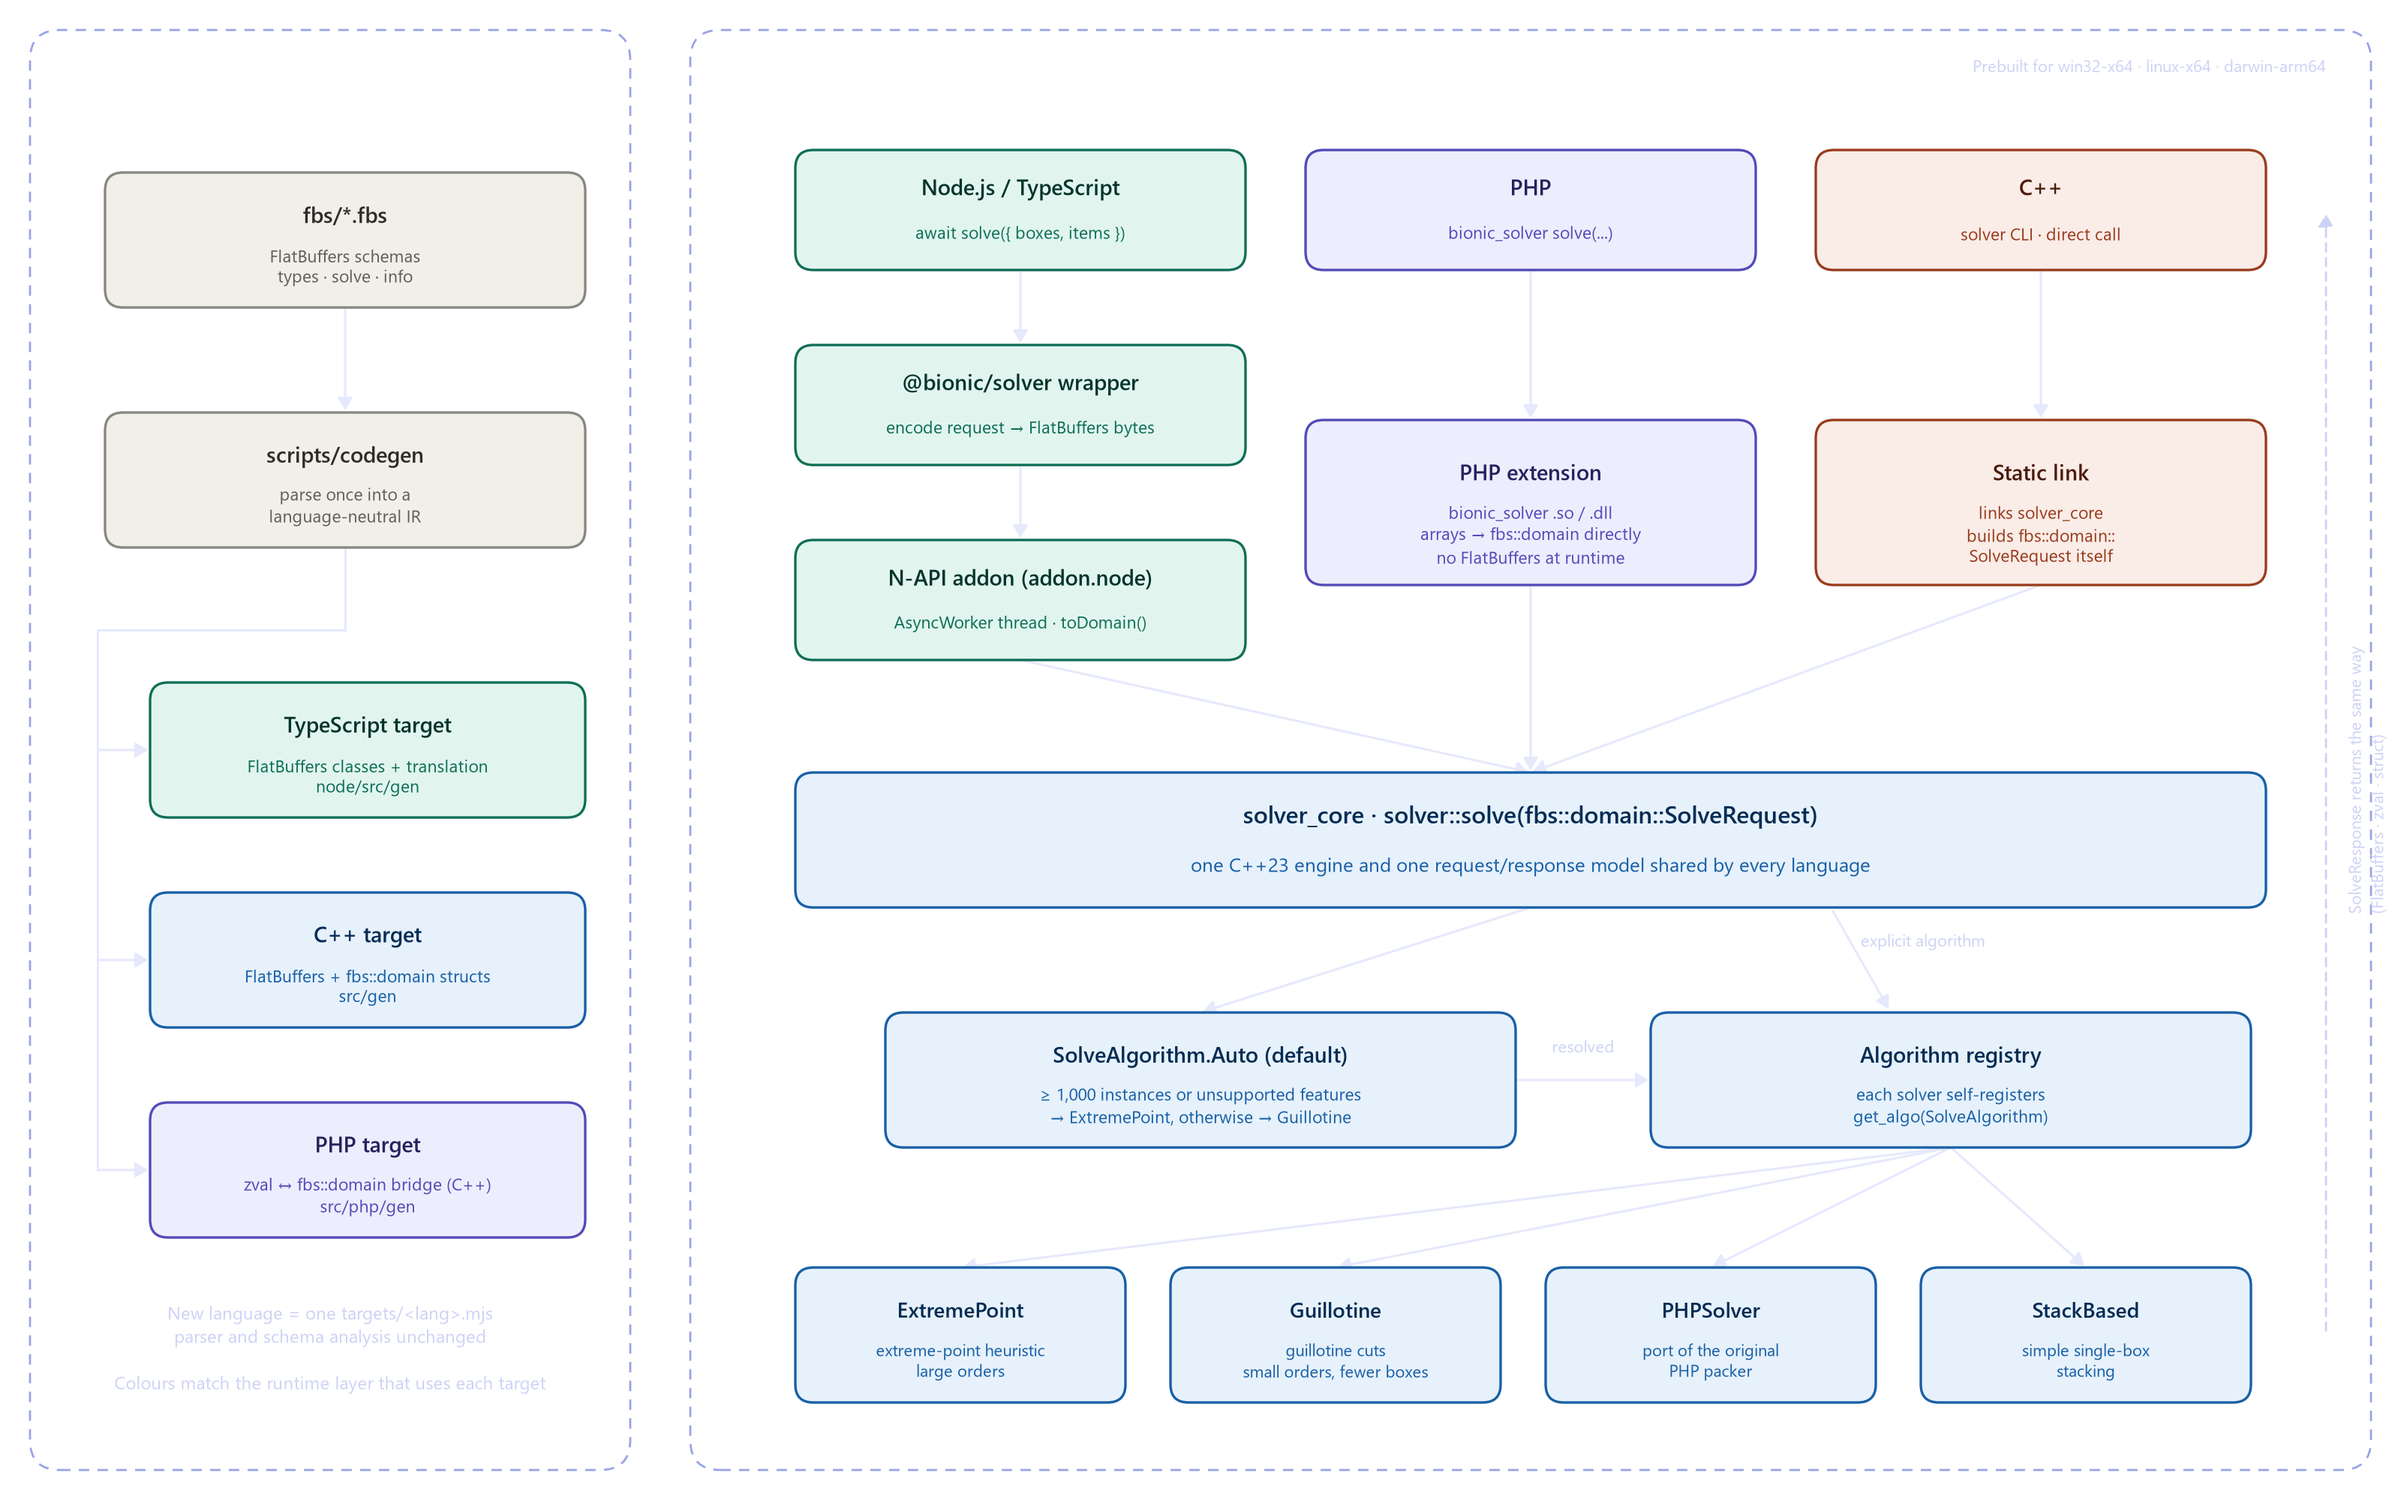
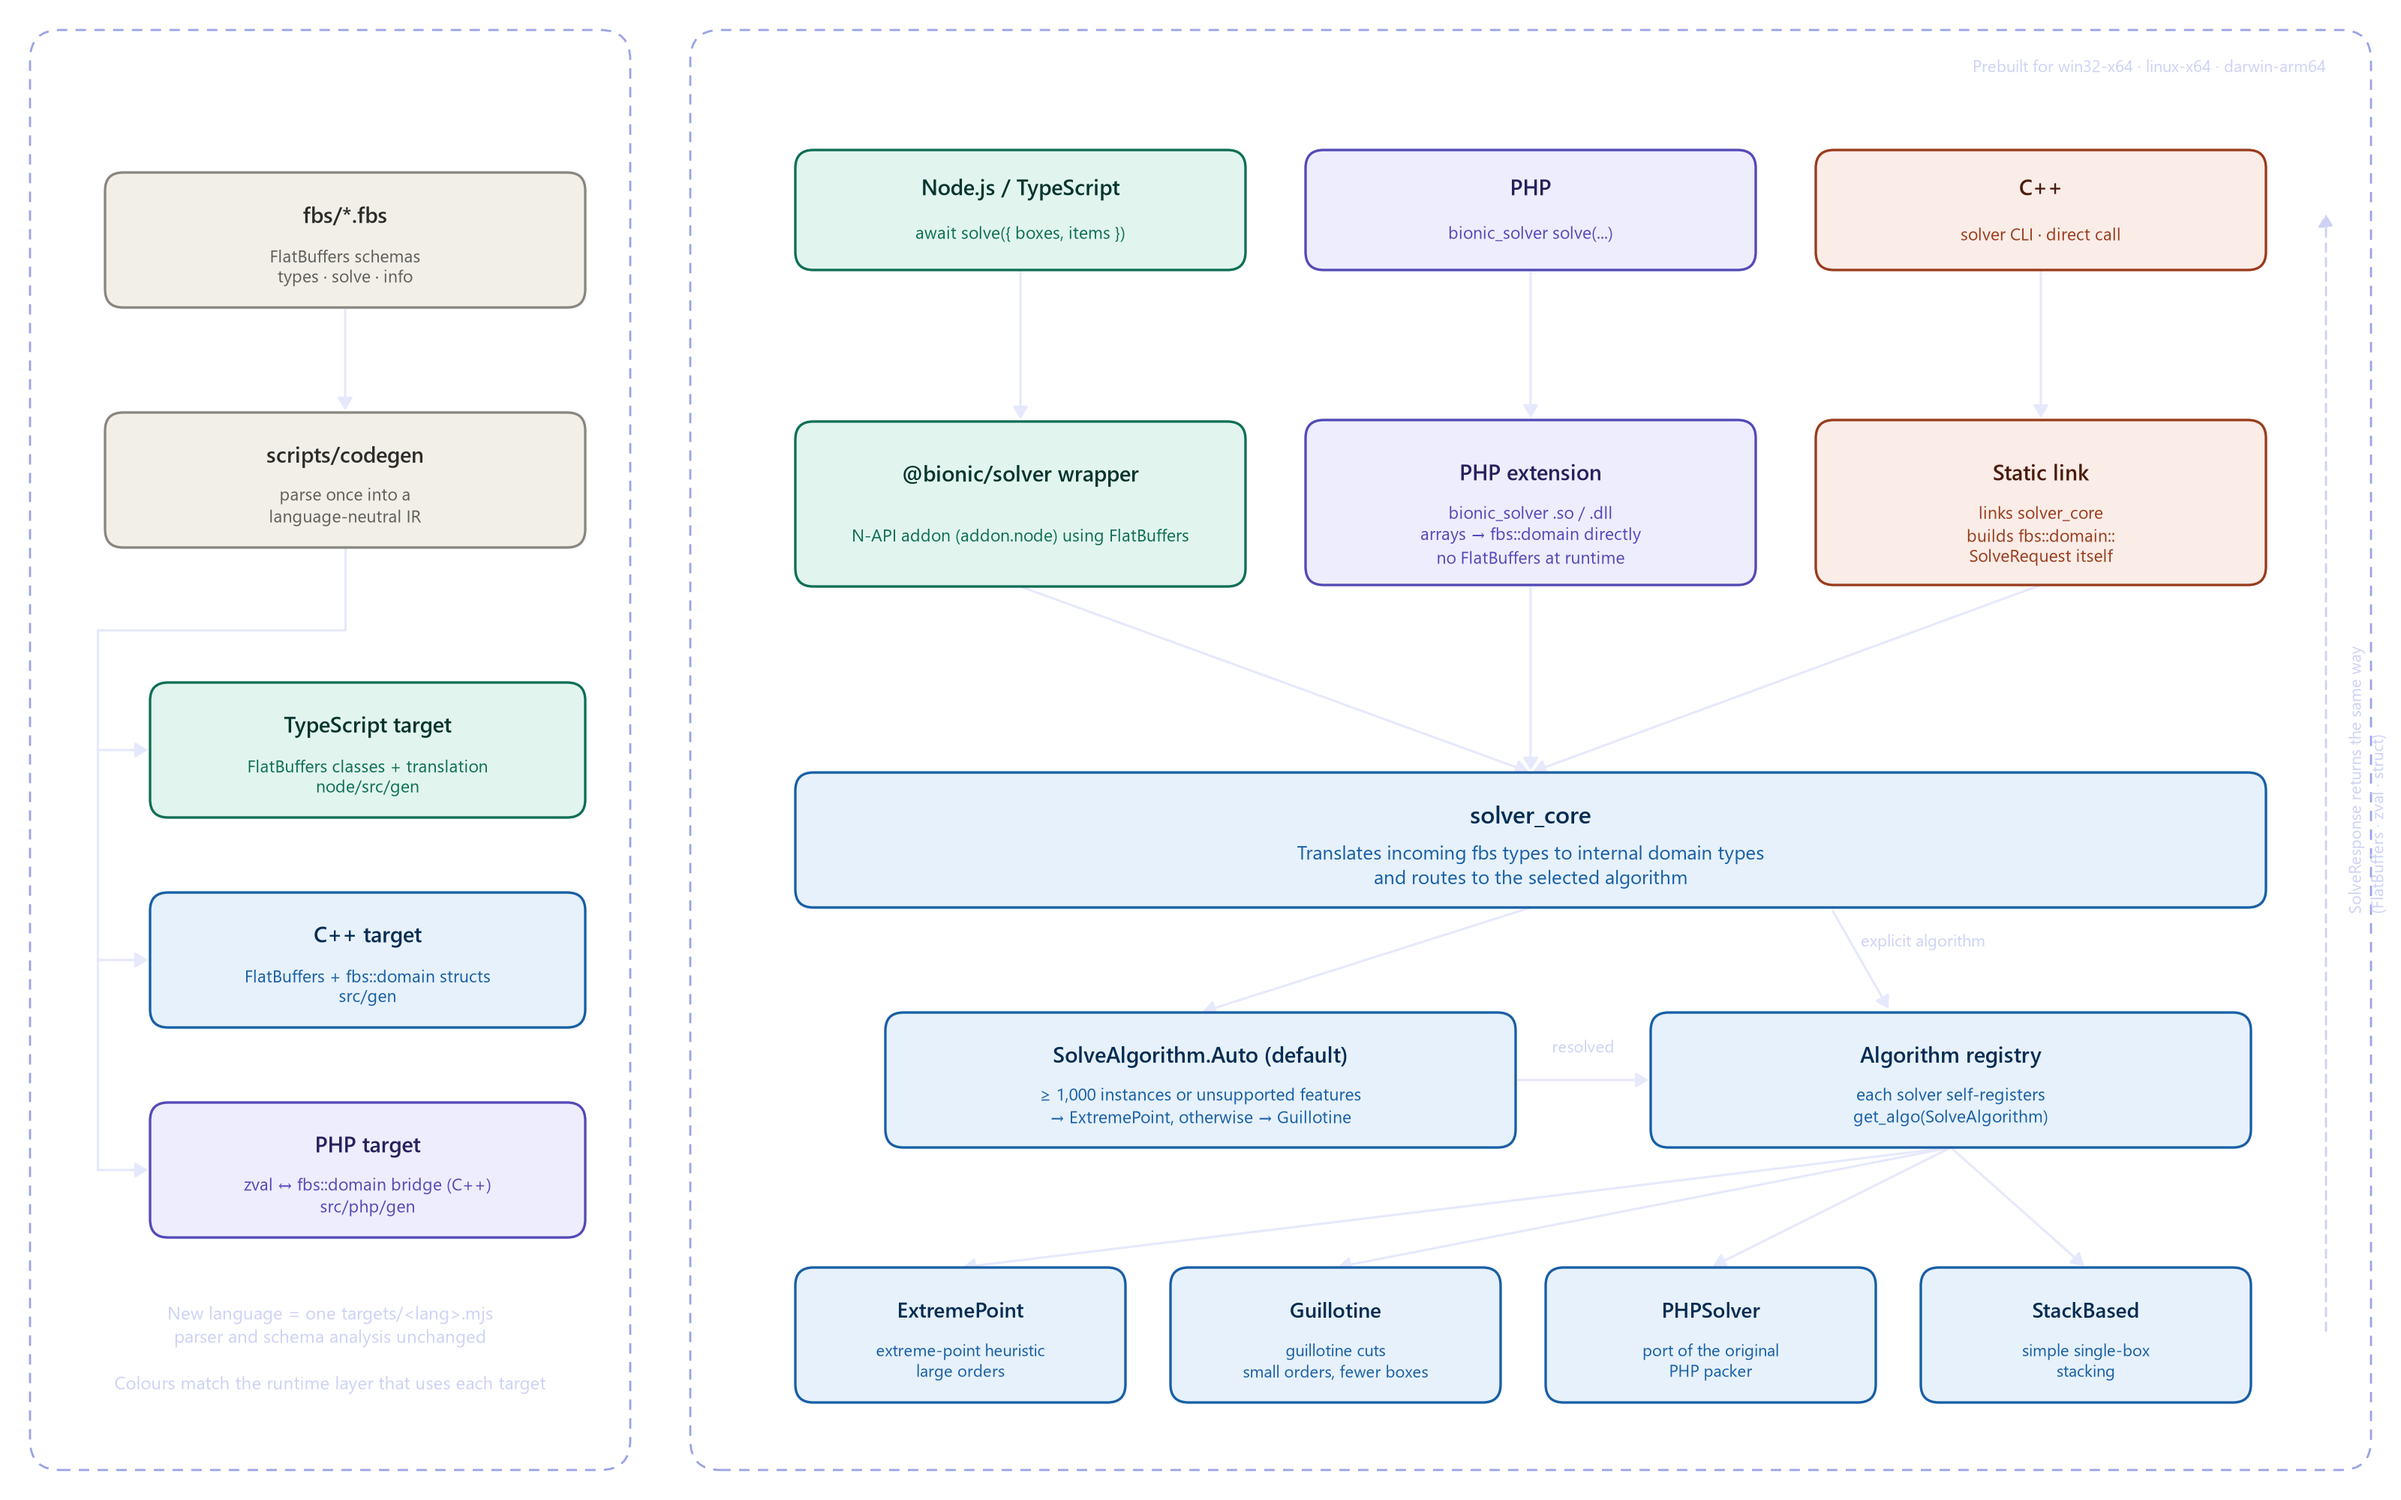
feat: update architecture diagram rendering for improved clarity and detail

Changed region(s): [[0.3125, 0.217, 0.5312, 0.465], [0.5312, 0.527, 0.7812, 0.589]]

diff --git a/docs/diagrams/architecture.py b/docs/diagrams/architecture.py
@@ -33,90 +33,282 @@ fig.subplots_adjust(0, 0, 1, 1)
 
 
 def box(cx, cy, w, h, title, sub="", ramp=GRAY, size=10.5):
-    ax.add_patch(FancyBboxPatch(
-        (cx - w / 2, cy - h / 2), w, h, boxstyle="round,pad=0,rounding_size=1.2",
-        facecolor=ramp[0], edgecolor=ramp[1], linewidth=1.2, zorder=2,
-    ))
+    ax.add_patch(
+        FancyBboxPatch(
+            (cx - w / 2, cy - h / 2),
+            w,
+            h,
+            boxstyle="round,pad=0,rounding_size=1.2",
+            facecolor=ramp[0],
+            edgecolor=ramp[1],
+            linewidth=1.2,
+            zorder=2,
+        )
+    )
     if sub:
-        ax.text(cx, cy + h * 0.17, title, ha="center", va="center", fontsize=size, fontweight="semibold", color=ramp[2], zorder=3)
-        ax.text(cx, cy - h * 0.2, sub, ha="center", va="center", fontsize=size - 2.2, color=ramp[3], zorder=3, linespacing=1.35)
+        ax.text(
+            cx,
+            cy + h * 0.17,
+            title,
+            ha="center",
+            va="center",
+            fontsize=size,
+            fontweight="semibold",
+            color=ramp[2],
+            zorder=3,
+        )
+        ax.text(
+            cx,
+            cy - h * 0.2,
+            sub,
+            ha="center",
+            va="center",
+            fontsize=size - 2.2,
+            color=ramp[3],
+            zorder=3,
+            linespacing=1.35,
+        )
     else:
-        ax.text(cx, cy, title, ha="center", va="center", fontsize=size, fontweight="semibold", color=ramp[2], zorder=3)
+        ax.text(
+            cx,
+            cy,
+            title,
+            ha="center",
+            va="center",
+            fontsize=size,
+            fontweight="semibold",
+            color=ramp[2],
+            zorder=3,
+        )
     return {"cx": cx, "cy": cy, "w": w, "h": h}
 
 
-def arrow(a, b, label="", dashed=False, color=LINE, start="bottom", end="top", rad=0.0, label_dx=1.0):
+def arrow(
+    a,
+    b,
+    label="",
+    dashed=False,
+    color=LINE,
+    start="bottom",
+    end="top",
+    rad=0.0,
+    label_dx=1.0,
+):
     def anchor(n, side):
         return {
-            "top": (n["cx"], n["cy"] + n["h"] / 2), "bottom": (n["cx"], n["cy"] - n["h"] / 2),
-            "left": (n["cx"] - n["w"] / 2, n["cy"]), "right": (n["cx"] + n["w"] / 2, n["cy"]),
+            "top": (n["cx"], n["cy"] + n["h"] / 2),
+            "bottom": (n["cx"], n["cy"] - n["h"] / 2),
+            "left": (n["cx"] - n["w"] / 2, n["cy"]),
+            "right": (n["cx"] + n["w"] / 2, n["cy"]),
         }[side]
 
     p, q = anchor(a, start), anchor(b, end)
-    ax.add_patch(FancyArrowPatch(
-        p, q, arrowstyle="-|>,head_length=5,head_width=3", connectionstyle=f"arc3,rad={rad}",
-        color=color, linewidth=1.1, linestyle=(0, (4, 3)) if dashed else "-", zorder=1, shrinkA=1, shrinkB=1,
-    ))
+    ax.add_patch(
+        FancyArrowPatch(
+            p,
+            q,
+            arrowstyle="-|>,head_length=5,head_width=3",
+            connectionstyle=f"arc3,rad={rad}",
+            color=color,
+            linewidth=1.1,
+            linestyle=(0, (4, 3)) if dashed else "-",
+            zorder=1,
+            shrinkA=1,
+            shrinkB=1,
+        )
+    )
     if label:
-        ax.text((p[0] + q[0]) / 2 + label_dx, (p[1] + q[1]) / 2, label, fontsize=8, color=MUTED, ha="left", va="center")
+        ax.text(
+            (p[0] + q[0]) / 2 + label_dx,
+            (p[1] + q[1]) / 2,
+            label,
+            fontsize=8,
+            color=MUTED,
+            ha="left",
+            va="center",
+        )
 
 
 def region(x, y, w, h, label):
-    ax.add_patch(FancyBboxPatch(
-        (x, y), w, h, boxstyle="round,pad=0,rounding_size=2",
-        facecolor="none", edgecolor=FRAME, linewidth=1, linestyle=(0, (5, 4)), zorder=0,
-    ))
-    ax.text(x + 2, y + h - 2.5, label, fontsize=11, fontweight="semibold", color=INK, va="center")
+    ax.add_patch(
+        FancyBboxPatch(
+            (x, y),
+            w,
+            h,
+            boxstyle="round,pad=0,rounding_size=2",
+            facecolor="none",
+            edgecolor=FRAME,
+            linewidth=1,
+            linestyle=(0, (5, 4)),
+            zorder=0,
+        )
+    )
+    ax.text(
+        x + 2,
+        y + h - 2.5,
+        label,
+        fontsize=11,
+        fontweight="semibold",
+        color=INK,
+        va="center",
+    )
 
 
 # Build time: one schema, generated bindings
 region(2, 2, 40, 96, "Build time · one schema")
 schema = box(23, 84, 32, 9, "fbs/*.fbs", "FlatBuffers schemas\ntypes · solve · info")
-codegen = box(23, 68, 32, 9, "scripts/codegen", "parse once into a\nlanguage-neutral IR")
-ts_gen = box(24.5, 50, 29, 9, "TypeScript target", "FlatBuffers classes + translation\nnode/src/gen", TEAL)
-cpp_gen = box(24.5, 36, 29, 9, "C++ target", "FlatBuffers + fbs::domain structs\nsrc/gen", BLUE)
-php_gen = box(24.5, 22, 29, 9, "PHP target", "zval ↔ fbs::domain bridge (C++)\nsrc/php/gen", PURPLE)
+codegen = box(
+    23, 68, 32, 9, "scripts/codegen", "parse once into a\nlanguage-neutral IR"
+)
+ts_gen = box(
+    24.5,
+    50,
+    29,
+    9,
+    "TypeScript target",
+    "FlatBuffers classes + translation\nnode/src/gen",
+    TEAL,
+)
+cpp_gen = box(
+    24.5, 36, 29, 9, "C++ target", "FlatBuffers + fbs::domain structs\nsrc/gen", BLUE
+)
+php_gen = box(
+    24.5,
+    22,
+    29,
+    9,
+    "PHP target",
+    "zval ↔ fbs::domain bridge (C++)\nsrc/php/gen",
+    PURPLE,
+)
 arrow(schema, codegen)
 # One trunk out of codegen, one branch per language target
 SPINE = 6.5
-ax.plot([23, 23, SPINE, SPINE], [63.5, 58, 58, 22], color=LINE, linewidth=1.1, zorder=1, solid_capstyle="round")
+ax.plot(
+    [23, 23, SPINE, SPINE],
+    [63.5, 58, 58, 22],
+    color=LINE,
+    linewidth=1.1,
+    zorder=1,
+    solid_capstyle="round",
+)
 for target in (ts_gen, cpp_gen, php_gen):
-    ax.add_patch(FancyArrowPatch((SPINE, target["cy"]), (target["cx"] - target["w"] / 2, target["cy"]),
-                                 arrowstyle="-|>,head_length=5,head_width=3", color=LINE, linewidth=1.1, zorder=1, shrinkA=0, shrinkB=1))
-ax.text(22, 10, "New language = one targets/<lang>.mjs\nparser and schema analysis unchanged\n\nColours match the runtime layer that uses each target",
-        ha="center", va="center", fontsize=8.5, color=MUTED, linespacing=1.4)
+    ax.add_patch(
+        FancyArrowPatch(
+            (SPINE, target["cy"]),
+            (target["cx"] - target["w"] / 2, target["cy"]),
+            arrowstyle="-|>,head_length=5,head_width=3",
+            color=LINE,
+            linewidth=1.1,
+            zorder=1,
+            shrinkA=0,
+            shrinkB=1,
+        )
+    )
+ax.text(
+    22,
+    10,
+    "New language = one targets/<lang>.mjs\nparser and schema analysis unchanged\n\nColours match the runtime layer that uses each target",
+    ha="center",
+    va="center",
+    fontsize=8.5,
+    color=MUTED,
+    linespacing=1.4,
+)
 
 # Runtime: three languages into one engine
 region(46, 2, 112, 96, "Runtime · three languages, one engine")
 L1, L2, L3 = 68, 102, 136
-node_app = box(L1, 86, 30, 8, "Node.js / TypeScript", "await solve({ boxes, items })", TEAL)
+node_app = box(
+    L1, 86, 30, 8, "Node.js / TypeScript", "await solve({ boxes, items })", TEAL
+)
+
 php_app = box(L2, 86, 30, 8, "PHP", "bionic_solver solve(...)", PURPLE)
+
 cpp_app = box(L3, 86, 30, 8, "C++", "solver CLI · direct call", CORAL)
 
-ts_wrap = box(L1, 73, 30, 8, "@bionic/solver wrapper", "encode request → FlatBuffers bytes", TEAL)
-addon = box(L1, 60, 30, 8, "N-API addon (addon.node)", "AsyncWorker thread · toDomain()", TEAL)
-php_ext = box(L2, 66.5, 30, 11, "PHP extension", "bionic_solver .so / .dll\narrays → fbs::domain directly\nno FlatBuffers at runtime", PURPLE)
-cpp_link = box(L3, 66.5, 30, 11, "Static link", "links solver_core\nbuilds fbs::domain::\nSolveRequest itself", CORAL)
+node_addon = box(
+    L1,
+    66.4,
+    30,
+    11,
+    "@bionic/solver wrapper",
+    "N-API addon (addon.node) using FlatBuffers",
+    TEAL,
+)
 
-core = box(L2, 44, 98, 9, "solver_core · solver::solve(fbs::domain::SolveRequest)",
-           "one C++23 engine and one request/response model shared by every language", BLUE, size=11.5)
+php_ext = box(
+    L2,
+    66.5,
+    30,
+    11,
+    "PHP extension",
+    "bionic_solver .so / .dll\narrays → fbs::domain directly\nno FlatBuffers at runtime",
+    PURPLE,
+)
 
-arrow(node_app, ts_wrap)
-arrow(ts_wrap, addon)
-arrow(addon, core, end="top")
+cpp_link = box(
+    L3,
+    66.5,
+    30,
+    11,
+    "Static link",
+    "links solver_core\nbuilds fbs::domain::\nSolveRequest itself",
+    CORAL,
+)
+
+core = box(
+    L2,
+    44,
+    98,
+    9,
+    "solver_core",
+    "Translates incoming fbs types to internal domain types\nand routes to the selected algorithm",
+    BLUE,
+    size=11.5,
+)
+
+arrow(node_app, node_addon)
+arrow(node_addon, core, end="top")
 arrow(php_app, php_ext)
 arrow(php_ext, core)
 arrow(cpp_app, cpp_link)
 arrow(cpp_link, core, end="top")
 
-auto = box(80, 28, 42, 9, "SolveAlgorithm.Auto (default)", "≥ 1,000 instances or unsupported features\n→ ExtremePoint, otherwise → Guillotine", BLUE)
-registry = box(130, 28, 40, 9, "Algorithm registry", "each solver self-registers\nget_algo(SolveAlgorithm)", BLUE)
+auto = box(
+    80,
+    28,
+    42,
+    9,
+    "SolveAlgorithm.Auto (default)",
+    "≥ 1,000 instances or unsupported features\n→ ExtremePoint, otherwise → Guillotine",
+    BLUE,
+)
+registry = box(
+    130,
+    28,
+    40,
+    9,
+    "Algorithm registry",
+    "each solver self-registers\nget_algo(SolveAlgorithm)",
+    BLUE,
+)
 arrow(core, auto, start="bottom", end="top")
 arrow(auto, registry, start="right", end="left")
 ax.text(105.5, 29.6, "resolved", fontsize=8, color=MUTED, ha="center", va="bottom")
-ax.text(124, 37.2, "explicit algorithm", fontsize=8, color=MUTED, ha="left", va="center")
-ax.add_patch(FancyArrowPatch((122, 39.5), (126, 32.5), arrowstyle="-|>,head_length=5,head_width=3",
-                             color=LINE, linewidth=1.1, zorder=1))
+ax.text(
+    124, 37.2, "explicit algorithm", fontsize=8, color=MUTED, ha="left", va="center"
+)
+ax.add_patch(
+    FancyArrowPatch(
+        (122, 39.5),
+        (126, 32.5),
+        arrowstyle="-|>,head_length=5,head_width=3",
+        color=LINE,
+        linewidth=1.1,
+        zorder=1,
+    )
+)
 
 algos = [
     ("ExtremePoint", "extreme-point heuristic\nlarge orders"),
@@ -129,13 +321,40 @@ for i, (name, sub) in enumerate(algos):
     arrow(registry, a, start="bottom", end="top")
 
 # Return path
-ax.add_patch(FancyArrowPatch((155, 11), (155, 86), arrowstyle="-|>,head_length=5,head_width=3",
-                             connectionstyle="arc3,rad=0", color=MUTED, linewidth=1, linestyle=(0, (4, 3)), zorder=1))
-ax.text(156.3, 48, "SolveResponse returns the same way\n(FlatBuffers · zval · struct)", rotation=90,
-        fontsize=8, color=MUTED, ha="left", va="center", linespacing=1.4)
+ax.add_patch(
+    FancyArrowPatch(
+        (155, 11),
+        (155, 86),
+        arrowstyle="-|>,head_length=5,head_width=3",
+        connectionstyle="arc3,rad=0",
+        color=MUTED,
+        linewidth=1,
+        linestyle=(0, (4, 3)),
+        zorder=1,
+    )
+)
+ax.text(
+    156.3,
+    48,
+    "SolveResponse returns the same way\n(FlatBuffers · zval · struct)",
+    rotation=90,
+    fontsize=8,
+    color=MUTED,
+    ha="left",
+    va="center",
+    linespacing=1.4,
+)
 
-ax.text(155, 95.5, "Prebuilt for win32-x64 · linux-x64 · darwin-arm64", fontsize=8, color=MUTED, ha="right", va="center")
+ax.text(
+    155,
+    95.5,
+    "Prebuilt for win32-x64 · linux-x64 · darwin-arm64",
+    fontsize=8,
+    color=MUTED,
+    ha="right",
+    va="center",
+)
 
 out = Path(__file__).with_name("architecture.png")
-fig.savefig(out, dpi=200, transparent=True)
+fig.savefig(out, dpi=200, transparent=False)
 print(f"wrote {out}")
